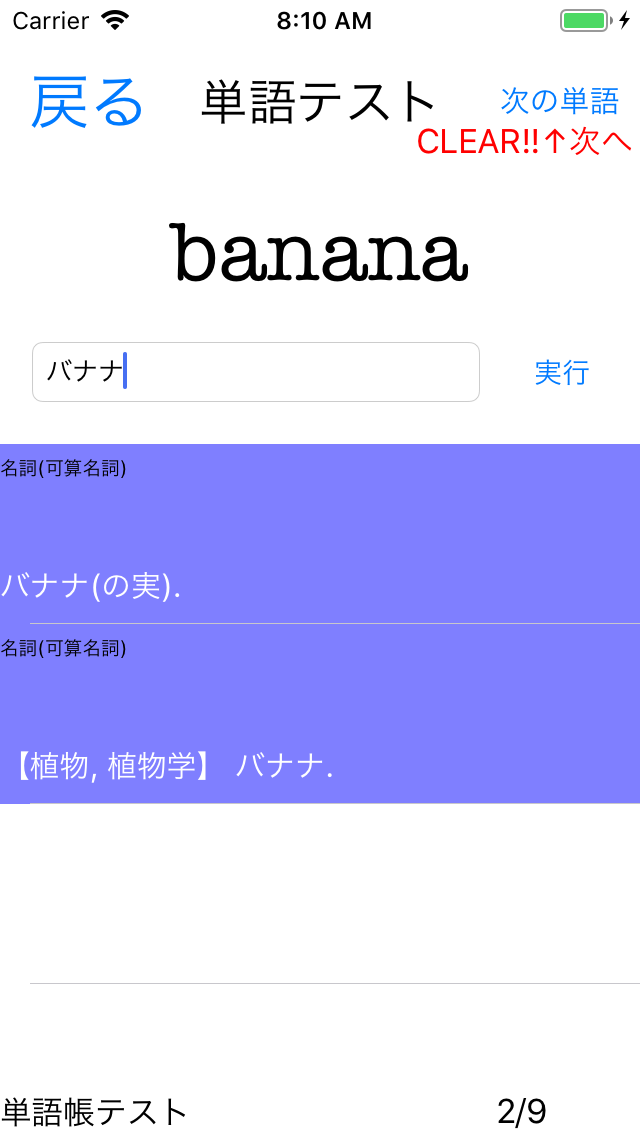
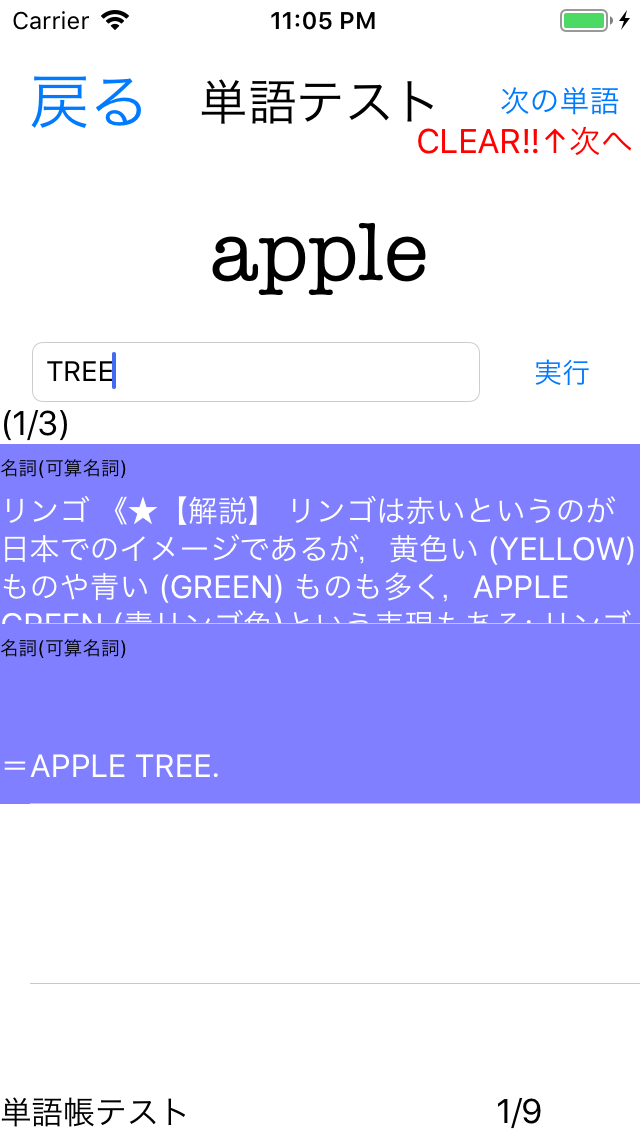
単語テスト画面で正答率を表示

diff --git a/EnglishWords/EnglishWords/TestOfWordNoteBookViewController.swift b/EnglishWords/EnglishWords/TestOfWordNoteBookViewController.swift
@@ -16,6 +16,7 @@ class TestOfWordNoteBookViewController: UIViewController, UITableViewDelegate, U
     @IBOutlet var wordNote: UILabel!
     @IBOutlet var count: UILabel!
     @IBOutlet var clearLabel: UILabel!
+    @IBOutlet var rate: UILabel!
     
     @IBOutlet var table:UITableView!
     @IBOutlet var answerMeanTextField:UITextField!
@@ -57,6 +58,7 @@ class TestOfWordNoteBookViewController: UIViewController, UITableViewDelegate, U
             word.text = wordNoteList[wordIdx].word?.wordName
             wordNote.text = wordnotebook?.wordNoteBookName
             count.text = (wordIdx + 1).description + "/" + wordNoteList.count.description
+            rate.text = "(" + (nowWord?.numOfCorrect.description)! + "/" + (nowWord?.numOfAnswer.description)! + ")"
 
             //選択したWordからデータベース内に保存してあるWordDataを全て取得
             let realm: Realm = try! Realm()
@@ -143,10 +145,24 @@ class TestOfWordNoteBookViewController: UIViewController, UITableViewDelegate, U
     //次の単語へ移る
     func toNextWord(){
         
-        numOfClear = []
         //隠しラベル非点灯へ
         clearLabel.textColor = UIColor.white
         
+        //正答数と回答数を記録（Wordを取得して更新）
+        let realm = try! Realm()
+        let results = realm.objects(Word.self).filter("wordName == %@",nowWord?.wordName).first
+        
+        try! realm.write {
+            results?.numOfAnswer = (nowWord?.numOfAnswer)! + 1
+            if(nowWordDataList.count <= numOfClear.count){
+                //訳文を全部正答したなら正答数も+1
+                results?.numOfCorrect = (nowWord?.numOfCorrect)! + 1
+            }
+        }
+        
+        //正答した訳文のインデックスをクリア
+        numOfClear = []
+
         if(wordIdx >= wordNoteList.count - 1){
             //テスト終了
             testEndDispAlert()
@@ -157,6 +173,7 @@ class TestOfWordNoteBookViewController: UIViewController, UITableViewDelegate, U
             word.text = wordNoteList[wordIdx].word?.wordName
             wordNote.text = wordnotebook?.wordNoteBookName
             count.text = (wordIdx + 1).description + "/" + wordNoteList.count.description
+            rate.text = "(" + (nowWord?.numOfCorrect.description)! + "/" + (nowWord?.numOfAnswer.description)! + ")"
             
             //選択したWordからデータベース内に保存してあるWordDataを全て取得
             let realm: Realm = try! Realm()
